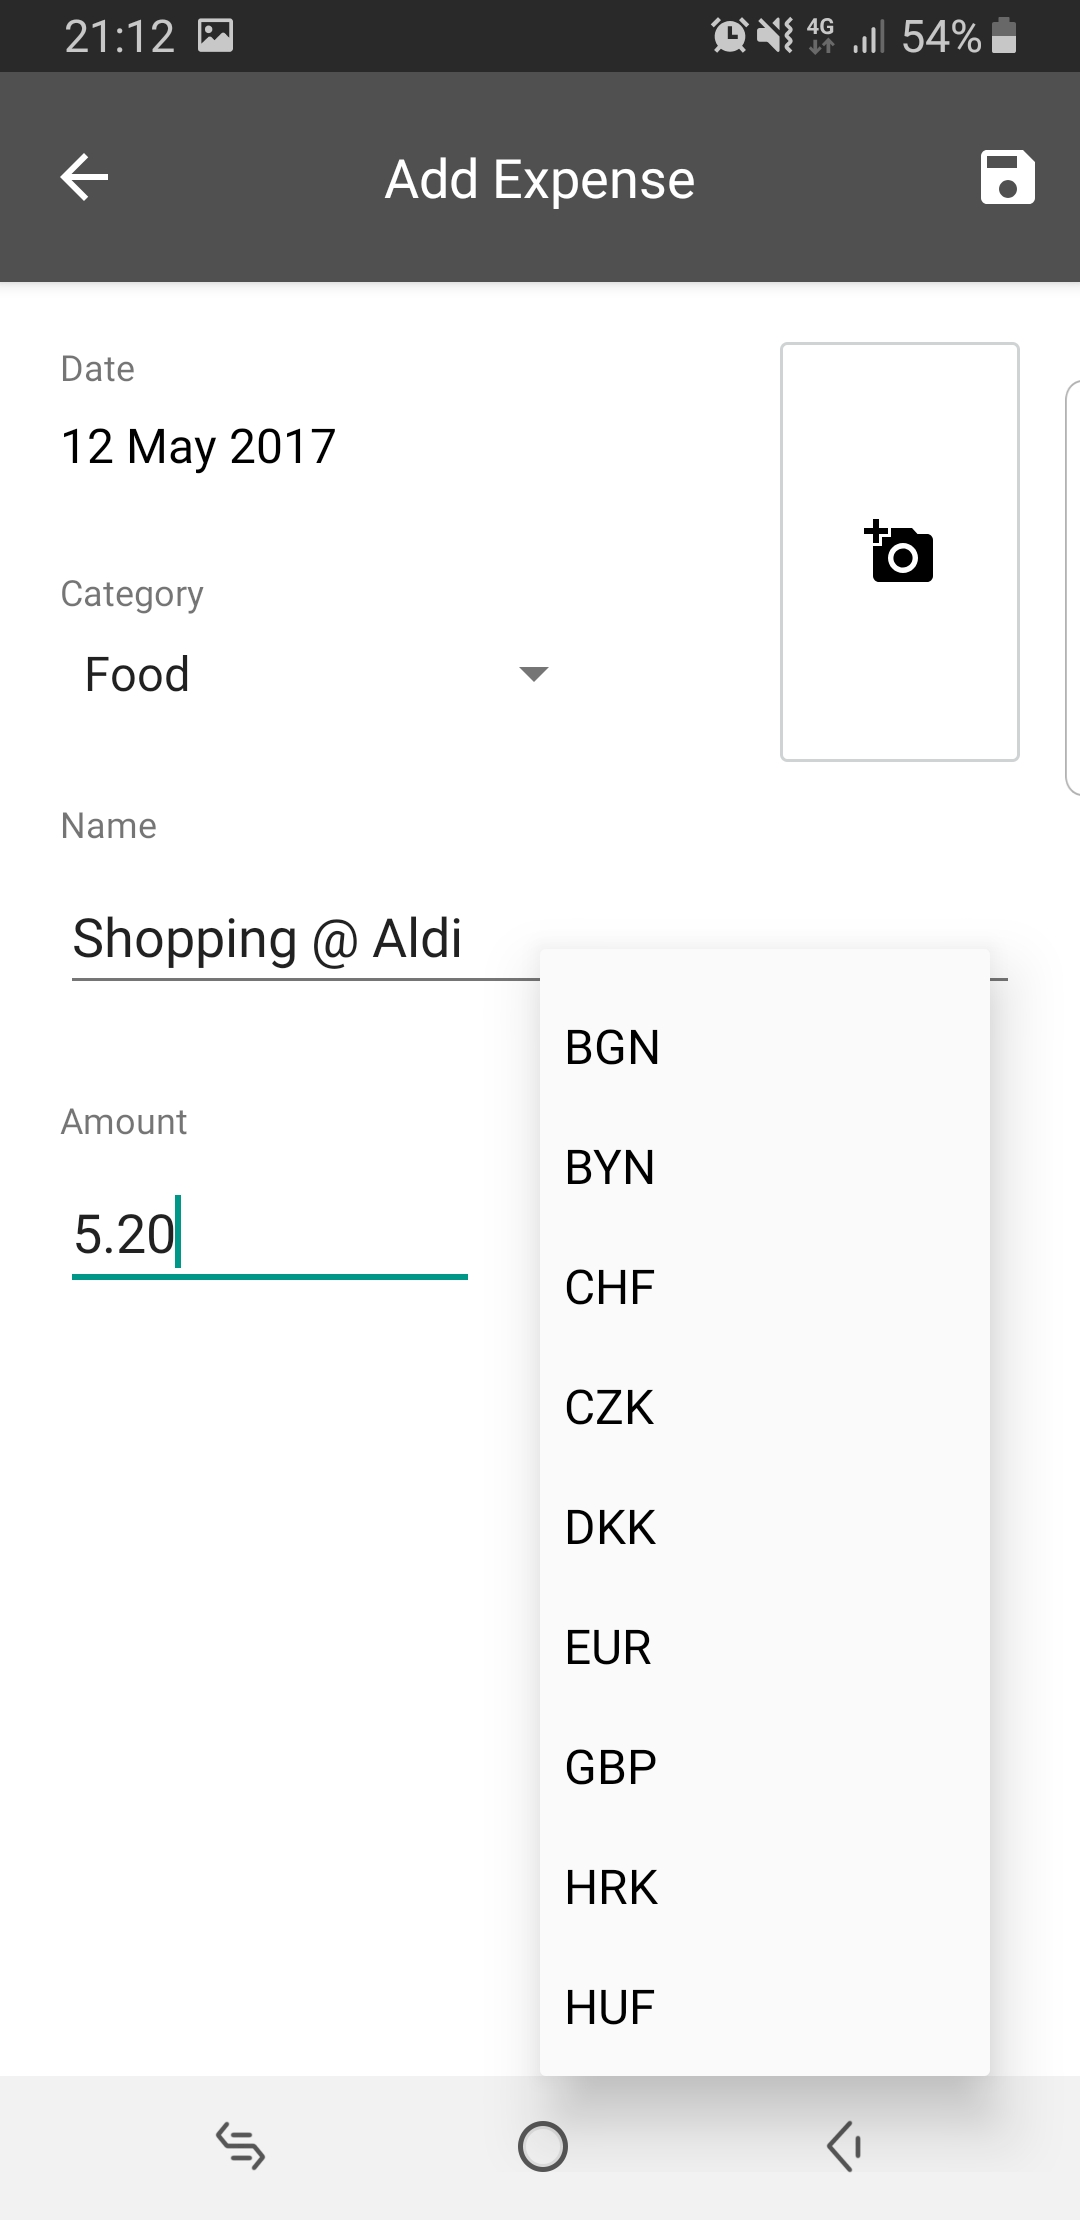
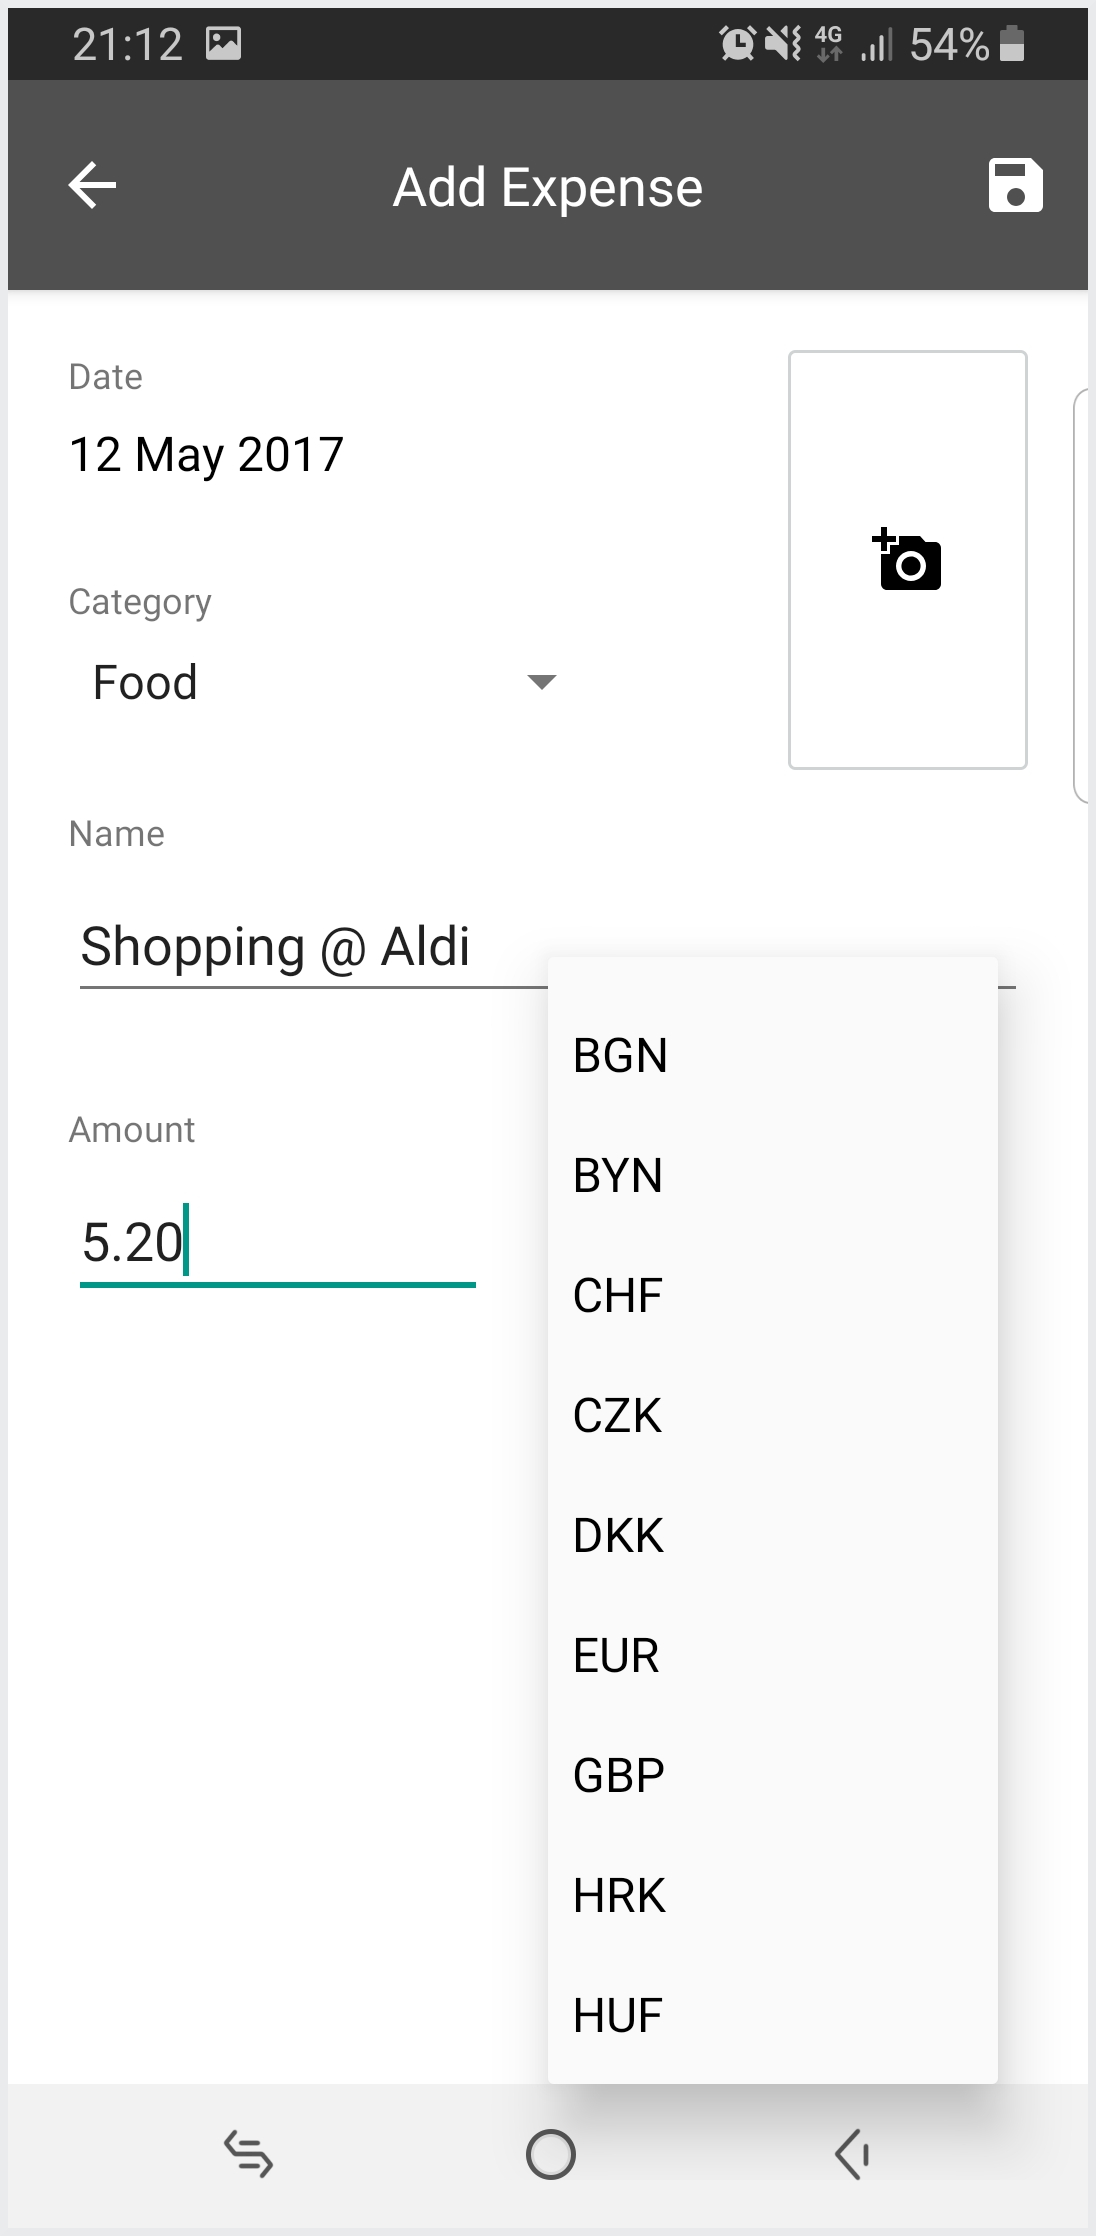
add border to image itself as style tags are sanitised by github

diff --git a/README.md b/README.md
@@ -35,7 +35,9 @@ The technical documentation can be found in the [documentation Markdown file](do
 
 ### Main page
 
-<img src="static/main-page.jpg" style="border: 1px solid #EAEBEC" width="216" height="444"/>
+<p align="center">
+    <img src="static/main-page.jpg" width="216" height="444"/>
+</p>
 
 - **Overview** and **Add Expenses** buttons - self-explanatory
 - Location - shows the current location based on GPS data
@@ -47,51 +49,69 @@ The technical documentation can be found in the [documentation Markdown file](do
 
 ### Adding an expense
 
-<img src="static/add-expense.jpg" style="border: 1px solid #EAEBEC" width="216" height="444"/>
+<p align="center">
+    <img src="static/add-expense.jpg" width="216" height="444"/>
+</p>
 
 - Easy addition of an expense with the desired fields
 - A photo can be attached to the expense by clicking on the camera icon at the top-right
 - Location is implicitly captured based on the location data on the main page
 
-<img src="static/add-expense-currency.jpg" style="border: 1px solid #EAEBEC" width="216" height="444"/>
+<p align="center">
+    <img src="static/add-expense-currency.jpg" width="216" height="444"/>
+</p>
 
 - Tapping on the **Currency** dropdown displays a list of available currencies
 - This currency list had been filtered to the currencies used by countries that I thought there was a chance to visit
 
 ### Amending the forex rates
 
-<img src="static/currency-forex-rates.jpg" style="border: 1px solid #EAEBEC" width="216" height="444"/>
+<p align="center">
+    <img src="static/currency-forex-rates.jpg" width="216" height="444"/>
+</p>
 
 - Allows for editing of the forex rate to EUR
 - Allows unimportant currencies to be hidden so that it does not appear in the "Add Expenses" page
 
 ### Overview page
 
-<img src="static/overview-page.jpg" style="border: 1px solid #EAEBEC" width="216" height="444"/>
+<p align="center">
+    <img src="static/overview-page.jpg" width="216" height="444"/>
+</p>
 
 - View the total expenditure for a specified date range
 - **View Expenses List** redirects to the [details page](#details-page) that lists the individual expenses in detail
 
-<img src="static/overview-page-sgd.jpg" style="border: 1px solid #EAEBEC" width="216" height="444"/>
+<p align="center">
+    <img src="static/overview-page-sgd.jpg" width="216" height="444"/>
+</p>
 
 - Tapping on the **Total Expenditure** value toggles the display between EUR and SGD
 
-<img src="static/overview-page-filter-country.jpg" style="border: 1px solid #EAEBEC" width="216" height="444"/>
+<p align="center">
+    <img src="static/overview-page-filter-country.jpg" width="216" height="444"/>
+</p>
 
 - Tapping the dropdown field on the top-right shows the country filter
 
 ### Details page
 
-<img src="static/details-page.jpg" style="border: 1px solid #EAEBEC" width="216" height="444"/>
+<p align="center">
+    <img src="static/details-page.jpg" width="216" height="444"/>
+</p>
 
 - Lists the details of each individual expense
 - Country flag provides a visual depiction of the country that the expense had been recorded in
 
-<img src="static/details-page-filter.jpg" style="border: 1px solid #EAEBEC" width="216" height="444"/>
+<p align="center">
+    <img src="static/details-page-filter.jpg" width="216" height="444"/>
+</p>
 
 - List of expenses can be filtered by category when tapping on the **Show Filters** button at the top
 
-<img src="static/edit-expense.jpg" style="border: 1px solid #EAEBEC" width="216" height="444"/>
+<p align="center">
+    <img src="static/edit-expense.jpg" width="216" height="444"/>
+</p>
 
 - Tapping on a row will display the "Edit Expense" page
 - **Location** field appears when editing an expense so that it can be amended in case the location had been erroneously captured (e.g. travelled from point A to B and recorded an expense at point B without the location updating to that of point B)
